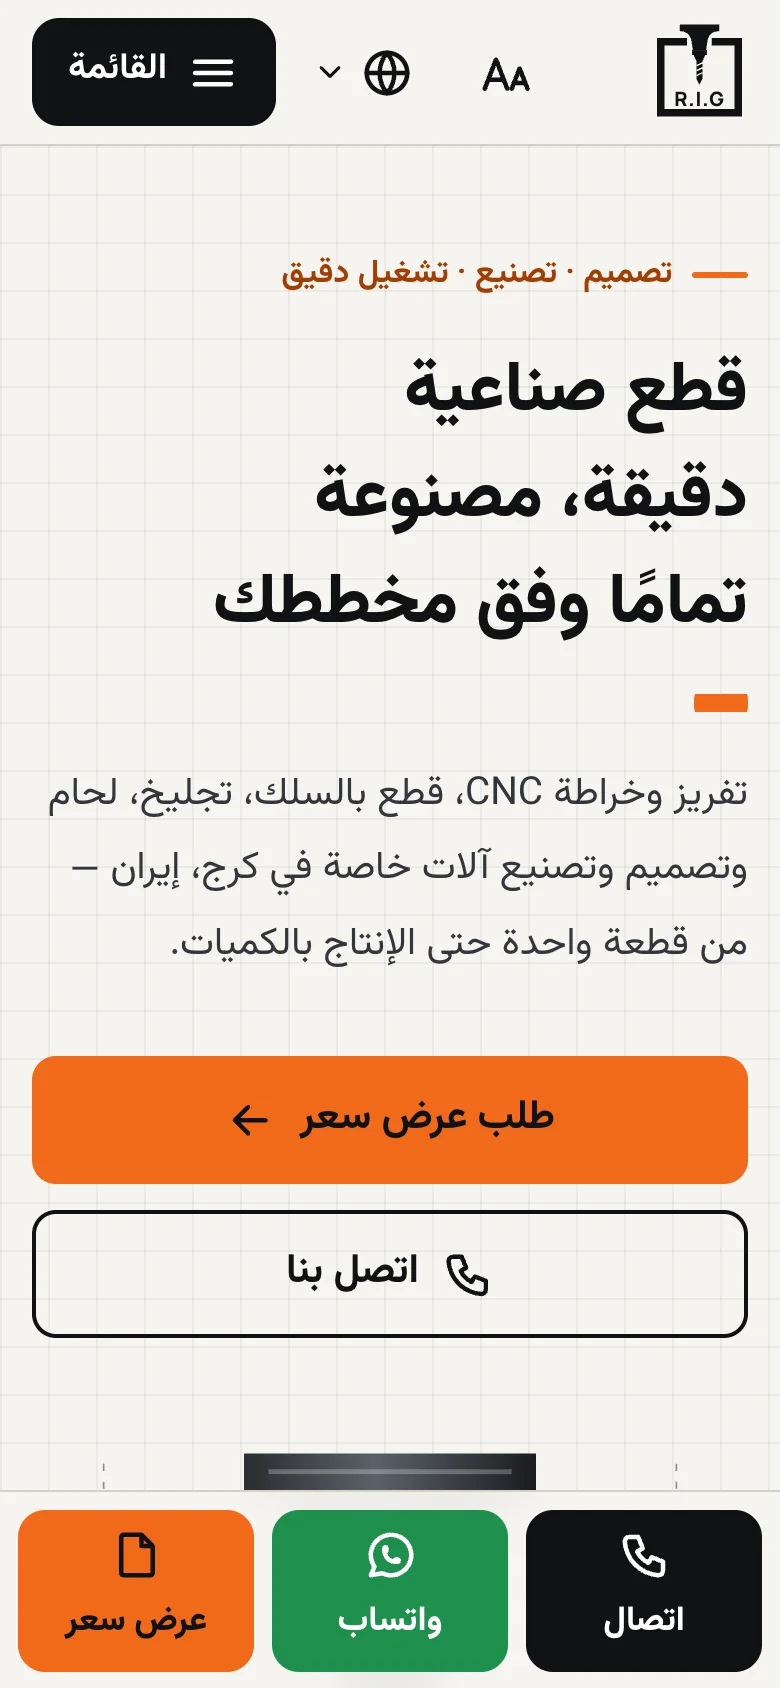
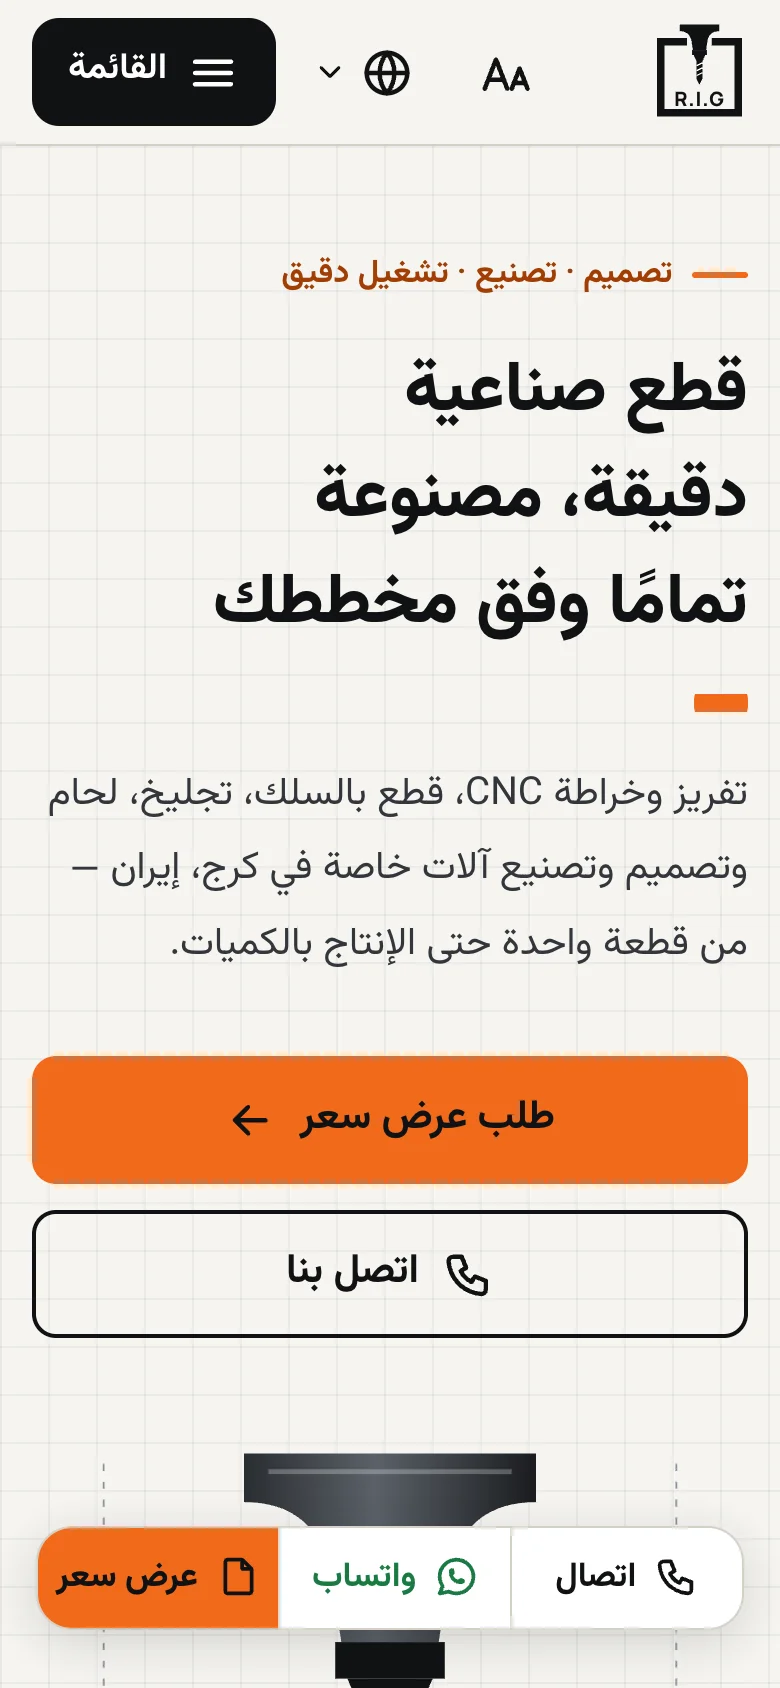
Mobile: compact segmented action dock, static header, safe-area support
The fixed bottom bar was three tall coloured blocks that hid content and sat under the
rounded display corners of iPhones. It is now one slim rounded dock with gaps that clear the
corners and home indicator (viewport-fit=cover + env insets). The header is static on phones, so
in-app browsers no longer show page content through a gap above it; it stays sticky from lg up.

diff --git a/src/components/layout/mobile-bar.tsx b/src/components/layout/mobile-bar.tsx
@@ -5,34 +5,34 @@ import { getSettings } from "@/lib/content";
 import { telHref, whatsappHref } from "@/lib/contact-links";
 import { FileIcon, PhoneIcon, WhatsappIcon } from "@/components/icons";
 
-/** Fixed bottom bar on phones: the three actions older visitors need most. */
+/** Compact dock on phones with the three actions older visitors need most. */
 export async function MobileBar() {
   const { locale, t } = await getI18n();
   const s = await getSettings();
-  const item =
-    "flex flex-1 flex-col items-center justify-center gap-0.5 rounded-xl py-2 text-[0.95rem] font-extrabold min-h-[60px]";
+  const item = "flex flex-1 items-center justify-center gap-2 px-2 text-[0.95rem] font-bold whitespace-nowrap";
   return (
     <nav
       aria-label={t.common.call}
-      className="fixed inset-x-0 bottom-0 z-40 border-t border-line bg-paper/95 px-2 pt-2 pb-[calc(8px+env(safe-area-inset-bottom))] backdrop-blur md:hidden"
+      // Side and bottom gaps keep the dock clear of the rounded display corners and the home indicator.
+      className="pointer-events-none fixed inset-x-0 bottom-0 z-40 pr-[max(1rem,env(safe-area-inset-right))] pb-[max(1rem,calc(env(safe-area-inset-bottom)-0.25rem))] pl-[max(1rem,env(safe-area-inset-left))] md:hidden"
     >
-      <div className="flex gap-2">
-        <a href={telHref(s.company.phone)} className={`${item} bg-ink text-white`} data-track="click_call">
-          <PhoneIcon className="size-6" />
+      <div className="pointer-events-auto mx-auto flex h-[52px] max-w-md divide-x divide-line overflow-hidden rounded-2xl border border-line bg-card shadow-[0_6px_24px_rgb(17_18_20/0.16)]">
+        <a href={telHref(s.company.phone)} className={`${item} text-ink`} data-track="click_call">
+          <PhoneIcon className="size-5" />
           {t.common.callShort}
         </a>
         <a
           href={whatsappHref(s.social.whatsapp)}
-          className={`${item} bg-[#1f8f4e] text-white`}
+          className={`${item} text-[#1a7a43]`}
           target="_blank"
           rel="noopener"
           data-track="click_whatsapp"
         >
-          <WhatsappIcon className="size-6" />
+          <WhatsappIcon className="size-5" />
           {t.common.whatsapp}
         </a>
-        <Link href={`${localePath(locale, "/contact")}#quote`} className={`${item} bg-accent text-ink`}>
-          <FileIcon className="size-6" />
+        <Link href={`${localePath(locale, "/contact")}#quote`} className={`${item} bg-accent font-extrabold text-ink`}>
+          <FileIcon className="size-5" />
           {t.common.quoteShort}
         </Link>
       </div>

diff --git a/src/components/layout/header.tsx b/src/components/layout/header.tsx
@@ -25,7 +25,7 @@ export async function Header() {
   const name = pick(settings.company.name, locale) ?? t.brand;
 
   return (
-    <header className="sticky top-0 z-50 border-b border-line bg-paper/95 backdrop-blur supports-[backdrop-filter]:bg-paper/85">
+    <header className="relative z-50 border-b border-line bg-paper lg:sticky lg:top-0 lg:bg-paper/95 lg:backdrop-blur lg:supports-[backdrop-filter]:bg-paper/85">
       <div className="wrap flex h-[var(--header-h)] items-center gap-3">
         <Link href={localePath(locale, "/")} className="flex items-center gap-3 me-auto" aria-label={name}>
           <LogoMark className="size-11 flex-none text-ink" />

diff --git a/src/app/globals.css b/src/app/globals.css
@@ -368,11 +368,9 @@ html.js:not([data-motion="none"]) .draw.in-view :is(path, line, circle, rect, po
   }
 }
 
-/* Mobile action bar leaves space at the bottom of the page. */
-@media (max-width: 767px) {
-  body {
-    padding-bottom: calc(76px + env(safe-area-inset-bottom));
-  }
+/* With viewport-fit=cover (needed for safe-area insets in in-app browsers) keep content out of the notch in landscape. */
+body {
+  padding-inline: env(safe-area-inset-left) env(safe-area-inset-right);
 }
 
 /* Hero drill flutes scroll to suggest rotation. */

diff --git a/src/components/analytics.tsx b/src/components/analytics.tsx
@@ -120,7 +120,7 @@ export function Analytics({ gtmId, ga4Id, clarityId, needsConsent, labels }: Pro
     <div
       role="dialog"
       aria-label={labels.text}
-      className="card fixed inset-x-3 bottom-[calc(92px+env(safe-area-inset-bottom))] z-50 mx-auto max-w-xl p-4 md:bottom-4"
+      className="card fixed inset-x-3 bottom-[calc(88px+env(safe-area-inset-bottom))] z-50 mx-auto max-w-xl p-4 md:bottom-4"
     >
       <p className="mb-3">{labels.text}</p>
       <div className="flex gap-2">

diff --git a/src/components/layout/footer.tsx b/src/components/layout/footer.tsx
@@ -101,6 +101,8 @@ export async function Footer() {
           © {num(year, locale)} {name}. {t.footer.rights}
         </p>
       </div>
+      {/* Room for the fixed mobile dock, kept inside the footer so its dark background reaches the bottom edge. */}
+      <div aria-hidden="true" className="h-[calc(84px+max(0px,env(safe-area-inset-bottom)-0.25rem))] md:hidden" />
     </footer>
   );
 }

diff --git a/src/app/[lang]/layout.tsx b/src/app/[lang]/layout.tsx
@@ -46,6 +46,7 @@ export async function generateMetadata(): Promise<Metadata> {
 export const viewport: Viewport = {
   width: "device-width",
   initialScale: 1,
+  viewportFit: "cover",
   themeColor: "#f6f5f1",
 };
 
